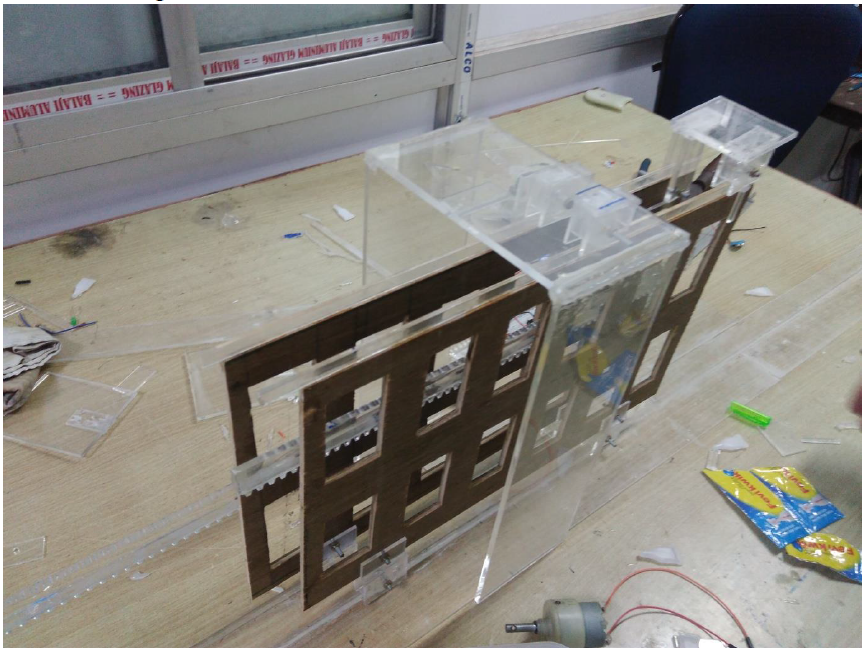
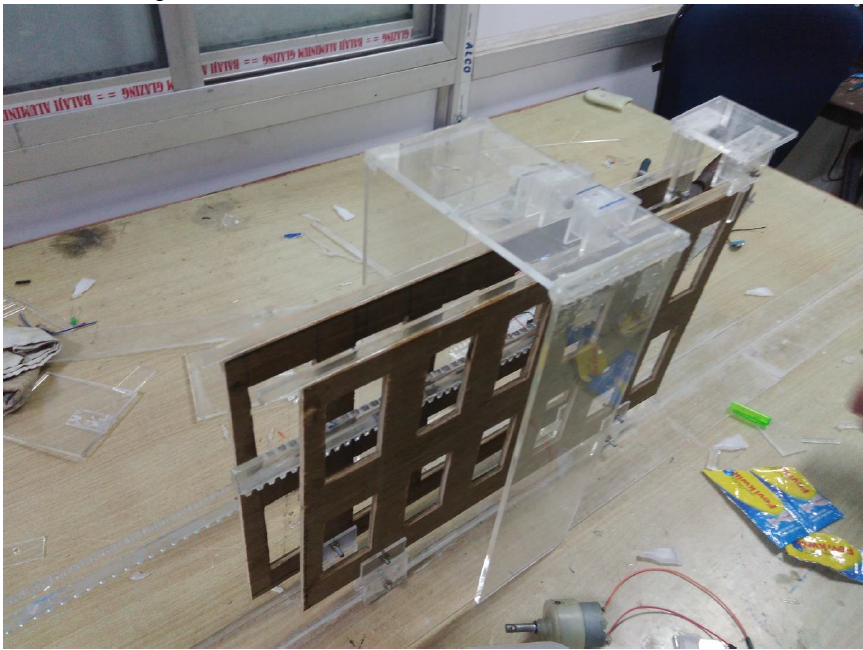
update portfolio website

diff --git a/projects/automated-security-gate.html b/projects/automated-security-gate.html
@@ -94,7 +94,7 @@
           </div>
           <div class="figure-card">
             <img src="../assets/figures/security_gate_fig4_working_prototype.png" alt="Working prototype of the automated security gate" loading="lazy">
-            <p class="caption"><strong>Working prototype.</strong> Final prototype used as the cover image for this project, showing the fabricated gate model and the mechanical layout.</p>
+            <p class="caption"><strong>Working prototype.</strong> Final fabricated prototype of the automated security gate. This image is also used as the project cover on the main portfolio page.</p>
           </div>
         </div>
         <p class="note"><a href="../assets/reports/security_gate_iit_patna_report.pdf" target="_blank" rel="noreferrer">View project report</a></p>

diff --git a/index.html b/index.html
@@ -108,6 +108,7 @@
           <img src="assets/logos/university-of-michigan.png" alt="University of Michigan logo">
           <div>
             <h3>University of Michigan</h3>
+            <p>Visiting Scholar</p>
             <p>January 2025 – January 2026</p>
           </div>
         </div>